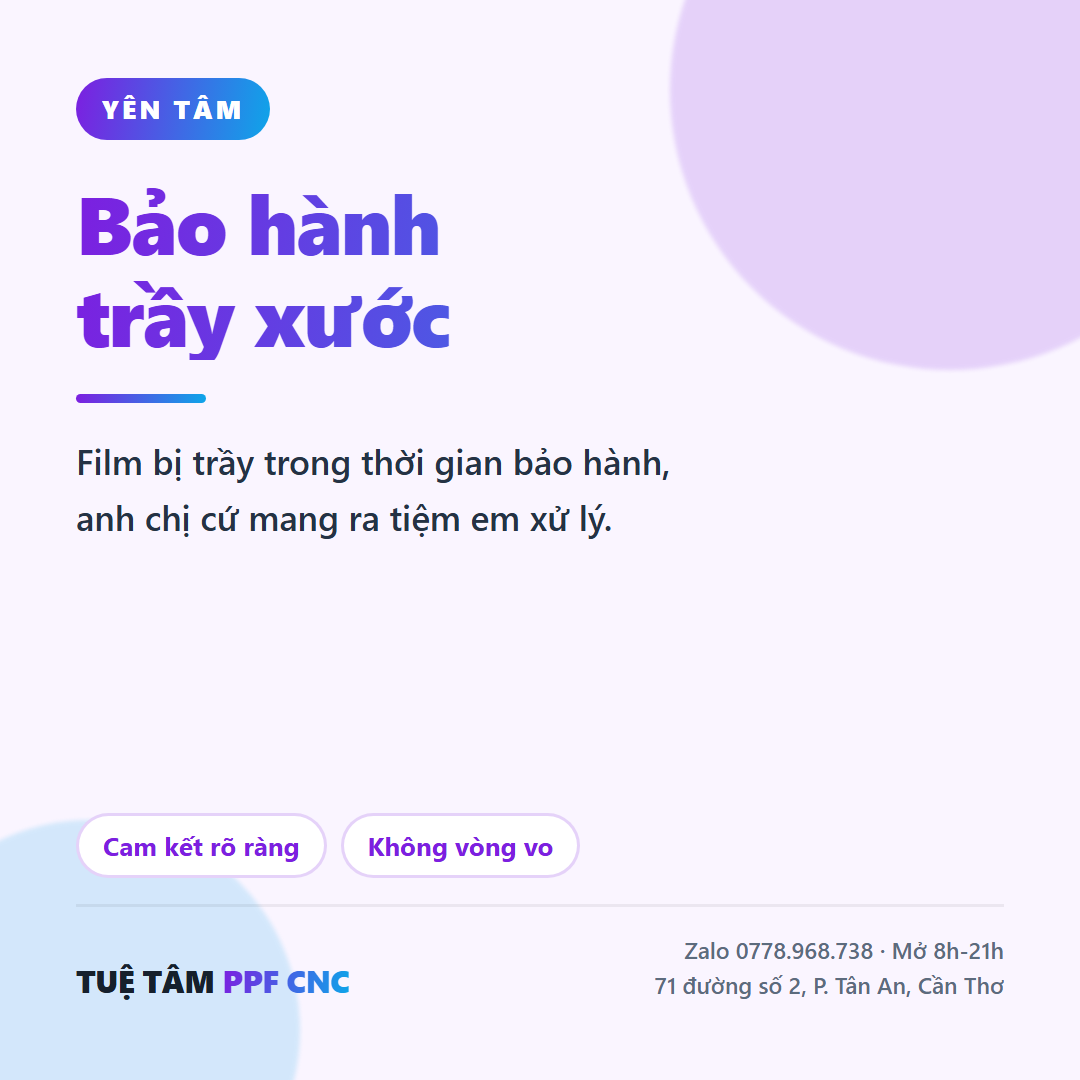
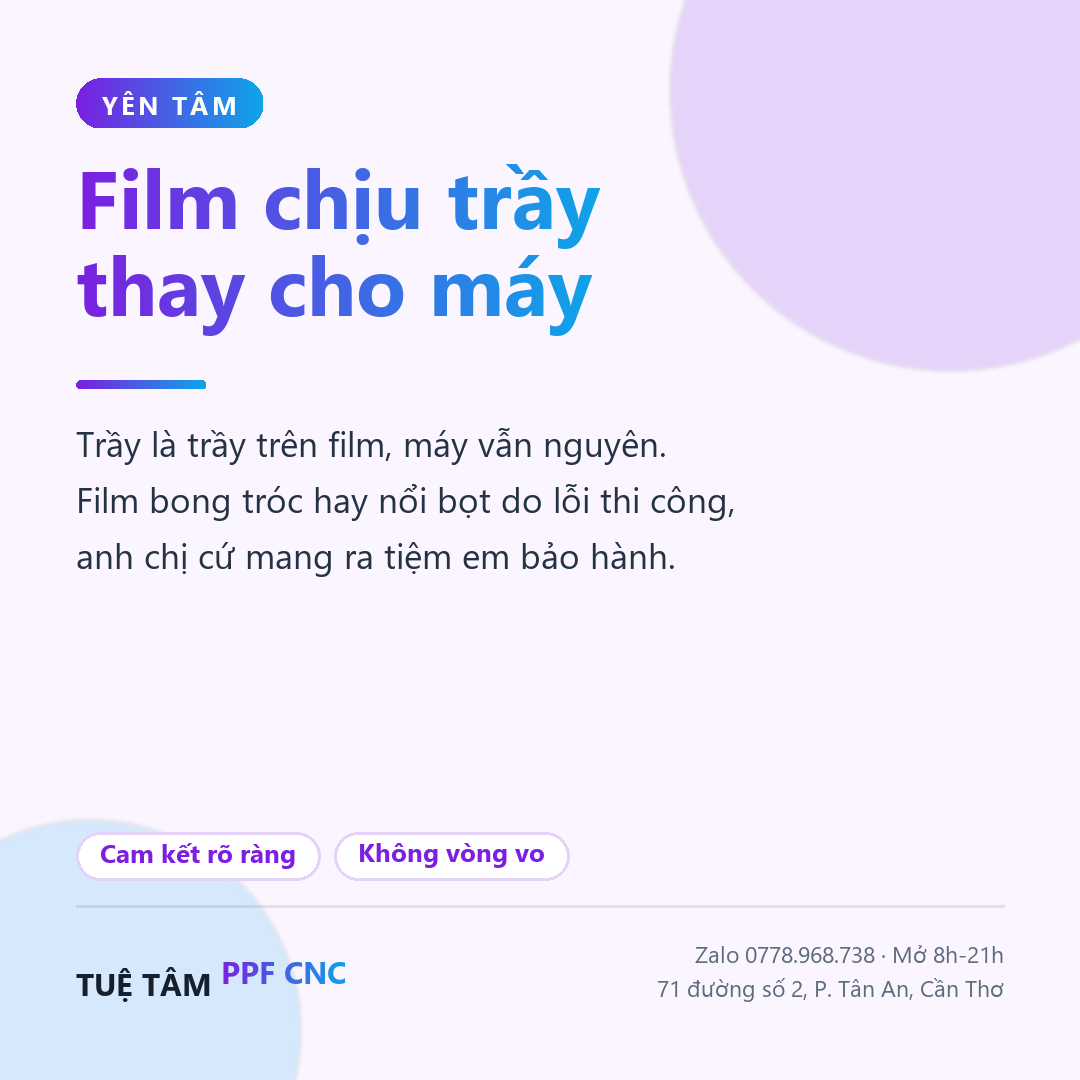
Sua chinh sach bao hanh: chi BH loi thi cong (bong troc, bot khi)
Bo moi loi hua "bao hanh tray xuoc" trong content dang qua Make.
Doi khung thanh "film chiu tray thay cho may"; loi nguoi dung
(tray khi su dung) khong bao hanh.

- gen_calendar.py: sua CAPS nhom bao hanh + checklist + tong hop
- gen_infographics.py + ppf-05.png: infographic "Film chiu tray thay cho may"
- Sinh lai posts.json, 62 caption txt, dong bo ten -08/-17 va -am/-pm
- bot Hoang Dung: persona noi ro pham vi bao hanh

diff --git a/tools/gen_calendar.py b/tools/gen_calendar.py
@@ -36,11 +36,11 @@ CAPS = {
 "Xước rồi là hết đường quay lại ạ. Đánh bóng cũng không về như cũ được.\n\nCách duy nhất là đừng để nó xước ngay từ đầu.\n\n" + Z + "\n\n" + TAG,
 "Máy mới mua về, nâng niu được đúng một tuần 😅\n\nRồi để chung túi với chìa khoá, đặt xuống bàn đá, rớt nhẹ một cái... lưng máy bắt đầu có vết.\n\nDán PPF từ đầu là yên tâm luôn.\n\n" + Z + "\n\n" + TAG,
 "Đừng đợi máy trầy rồi mới đi dán ạ. Lúc đó film chỉ che được vết cũ chứ không xoá được.\n\nDán sớm ngày nào lời ngày đó.\n\n" + Z + "\n\n" + TAG],
-5: [  # bao hanh
-"Dán xong mà lỡ trầy film thì sao ạ?\n\nDạ tiệm em có bảo hành trầy xước. Trong thời gian bảo hành, anh chị cứ mang máy ra em xử lý.\n\nNói rõ ràng từ đầu để anh chị yên tâm 🤍\n\n" + Z + "\n\n" + TAG,
-"Em không hứa film không bao giờ trầy — nói vậy là xạo ạ.\n\nEm hứa cái khác: trầy thì có bảo hành, mang ra tiệm em lo.\n\nCam kết được cái gì thì nói cái đó.\n\n" + Z + "\n\n" + TAG,
-"Trước khi dán ở bất kỳ đâu, anh chị nhớ hỏi kỹ: bảo hành thế nào, bao lâu, gồm những gì?\n\nChỗ nào nói vòng vo là nên cân nhắc ạ.\n\nTiệm em nói rõ ngay từ đầu.\n\n" + Z + "\n\n" + TAG,
-"Có bảo hành trầy xước nên anh chị cứ dùng máy thoải mái.\n\nBỏ túi chung chìa khoá, để bàn, đưa con nít cầm — có gì mang ra em.\n\n" + Z + "\n\n" + TAG,
+5: [  # bao hanh (chi bao hanh loi thi cong: bong troc, bot khi — KHONG bao hanh tray xuoc do su dung)
+"Dán PPF rồi film có bị trầy không ạ?\n\nDạ có chứ — nhưng đó là film chịu trầy thay cho máy. Trầy trên film thì máy bên dưới vẫn nguyên vẹn.\n\nCòn nếu film bong tróc hay nổi bọt khí do lỗi thi công, anh chị cứ mang ra tiệm em bảo hành nha 🤍\n\n" + Z + "\n\n" + TAG,
+"Em không hứa film không bao giờ trầy — nói vậy là xạo ạ.\n\nFilm sinh ra để chịu trầy thay cho máy mà. Trầy trên film là bình thường, máy bên dưới vẫn đẹp.\n\nCái em bảo hành là lỗi thi công: film bong tróc, nổi bọt khí. Gặp là mang ra em làm lại.\n\n" + Z + "\n\n" + TAG,
+"Trước khi dán ở bất kỳ đâu, anh chị nhớ hỏi kỹ: bảo hành thế nào, bao lâu, gồm những gì?\n\nChỗ nào nói vòng vo là nên cân nhắc ạ.\n\nTiệm em nói rõ ngay từ đầu: bảo hành film bong tróc, nổi bọt do lỗi thi công.\n\n" + Z + "\n\n" + TAG,
+"Có PPF rồi anh chị cứ dùng máy thoải mái.\n\nBỏ túi chung chìa khoá, để bàn, đưa con nít cầm — trầy thì trầy trên film, máy bên dưới vẫn đẹp.\n\nFilm bong tróc hay nổi bọt do lỗi thi công thì mang ra em bảo hành nha.\n\n" + Z + "\n\n" + TAG,
 "Dán PPF ở tiệm em xong, anh chị giữ lại thông tin để tra bảo hành nha.\n\nCần gì cứ nhắn " + Z + " em kiểm tra giúp.\n\n" + TAG],
 6: [  # gio mo cua
 "Tiệm em mở 8h sáng tới 9h tối mỗi ngày ạ ☀🌙\n\nAnh chị đi làm về ghé vẫn kịp. Nhắn Zalo trước một tiếng thì em chuẩn bị sẵn, khỏi ngồi chờ lâu.\n\n" + Z + "\n" + DC + "\n\n" + TAG,
@@ -85,14 +85,14 @@ CAPS = {
 "Hai chỗ khách hay tiếc nhất khi trầy: cụm camera và 4 góc viền.\n\nHai chỗ đó tiệm em dán kỹ nhất.\n\n" + Z + "\n\n" + TAG,
 "Máy anh chị lật lên coi cụm camera thử ạ. Có vết xước nhỏ nào chưa?\n\nNếu có rồi thì nên dán ngay để nó đừng lan thêm.\n\n" + Z + "\n\n" + TAG],
 13: [ # checklist chon tiem
-"Trước khi dán ở đâu, anh chị hỏi 3 câu này là biết chỗ đó có ngon không:\n\n1. Có cắt bằng máy CNC theo model không, hay cắt tay?\n2. Có rọc dao trực tiếp lên máy em không?\n3. Bảo hành ra sao nếu film bong hay trầy?\n\nChỗ nào trả lời rõ ràng thì yên tâm ạ.\n\n" + Z + "\n\n" + TAG,
+"Trước khi dán ở đâu, anh chị hỏi 3 câu này là biết chỗ đó có ngon không:\n\n1. Có cắt bằng máy CNC theo model không, hay cắt tay?\n2. Có rọc dao trực tiếp lên máy em không?\n3. Bảo hành ra sao nếu film bong tróc, nổi bọt?\n\nChỗ nào trả lời rõ ràng thì yên tâm ạ.\n\n" + Z + "\n\n" + TAG,
 "Em không sợ anh chị so sánh, em chỉ sợ anh chị dán nhầm chỗ rồi mất niềm tin với PPF luôn 😔\n\nCứ hỏi kỹ trước khi dán, ở đâu cũng vậy.\n\n" + Z + "\n\n" + TAG,
 "Đi dán PPF nhớ hỏi kỹ về bảo hành nha anh chị. Đây là thứ phân biệt tiệm làm ăn lâu dài với chỗ làm cho xong.\n\n" + Z + "\n\n" + TAG,
 "Tiệm nào cho anh chị coi khuôn cắt của đúng dòng máy mình trước khi dán thì đó là dấu hiệu tốt ạ 👍\n\n" + Z + "\n\n" + TAG,
 "Chọn chỗ dán PPF cũng như chọn thợ cắt tóc vậy — làm ẩu một lần là nhớ đời 😅\n\nHỏi kỹ, coi kỹ, rồi hãy giao máy.\n\n" + Z + "\n\n" + TAG],
 14: [ # tong hop
-"TUỆ TÂM PPF CNC CẦN THƠ 🤍\n\n• Cắt CNC chuẩn từng dòng máy\n• Điện thoại, tablet, laptop, đồng hồ\n• Không rọc dao lên máy khách\n• Có bảo hành trầy xước\n\n" + DC + "\n" + Z + "\n\n" + TAG,
-"Dán một lần, yên tâm dài lâu ạ.\n\nMáy cắt CNC chuẩn model, film ôm khít viền, có bảo hành trầy xước.\n\nNhắn " + Z + " để em tư vấn cho đúng máy của anh chị.\n\n" + TAG,
+"TUỆ TÂM PPF CNC CẦN THƠ 🤍\n\n• Cắt CNC chuẩn từng dòng máy\n• Điện thoại, tablet, laptop, đồng hồ\n• Không rọc dao lên máy khách\n• Bảo hành film bong tróc, bọt khí do lỗi thi công\n\n" + DC + "\n" + Z + "\n\n" + TAG,
+"Dán một lần, yên tâm dài lâu ạ.\n\nMáy cắt CNC chuẩn model, film ôm khít viền, bảo hành lỗi thi công (bong tróc, bọt khí).\n\nNhắn " + Z + " để em tư vấn cho đúng máy của anh chị.\n\n" + TAG,
 "Cảm ơn anh chị đã tin tiệm em thời gian qua 🤍\n\nEm vẫn ở đây mỗi ngày 8h-21h, máy nào cũng nhận, tư vấn thật lòng chứ không ép.\n\n" + DC + "\n\n" + TAG,
 "Chưa biết máy mình dán được kiểu nào? Nhắn tên máy qua " + Z + " em kiểm tra khuôn rồi tư vấn liền ạ.\n\nMiễn phí, không dán cũng không sao 😊\n\n" + TAG,
 "Bảo vệ máy không phải chuyện xa xỉ, là chuyện giữ tiền của mình ạ.\n\nTUỆ TÂM PPF CNC — " + DC + "\n" + Z + "\n\n" + TAG],

diff --git a/tools/gen_infographics.py b/tools/gen_infographics.py
@@ -25,9 +25,10 @@ POSTS = [
          lines=["Một vết xước ở lưng máy đủ để người mua trả giá xuống.",
                 "Dán từ đầu rẻ hơn nhiều so với phần bị mất giá."],
          chips=["Giữ máy như mới", "Bán lại được giá"], theme=3),
-    dict(id="05", kicker="YÊN TÂM", title="Bảo hành\ntrầy xước",
-         lines=["Film bị trầy trong thời gian bảo hành,",
-                "anh chị cứ mang ra tiệm em xử lý."],
+    dict(id="05", kicker="YÊN TÂM", title="Film chịu trầy\nthay cho máy",
+         lines=["Trầy là trầy trên film, máy vẫn nguyên.",
+                "Film bong tróc hay nổi bọt do lỗi thi công,",
+                "anh chị cứ mang ra tiệm em bảo hành."],
          chips=["Cam kết rõ ràng", "Không vòng vo"], theme=4),
     dict(id="06", kicker="GIỜ MỞ CỬA", title="8h sáng — 9h tối\nmỗi ngày",
          lines=["Anh chị đi làm về ghé vẫn kịp.",
@@ -65,7 +66,7 @@ POSTS = [
     dict(id="13", kicker="TRƯỚC KHI CHỌN TIỆM", title="Hỏi 3 câu này\nlà biết chỗ ngon",
          lines=["1. Có cắt bằng máy CNC theo model không?",
                 "2. Có rọc dao trực tiếp lên máy em không?",
-                "3. Bảo hành thế nào nếu bong hay trầy?"],
+                "3. Bảo hành thế nào nếu bong tróc, nổi bọt?"],
          chips=[], theme=5),
     dict(id="14", kicker="TUỆ TÂM PPF CNC", title="Dán một lần\nyên tâm cả năm",
          lines=["Máy cắt CNC chuẩn từng model.",
